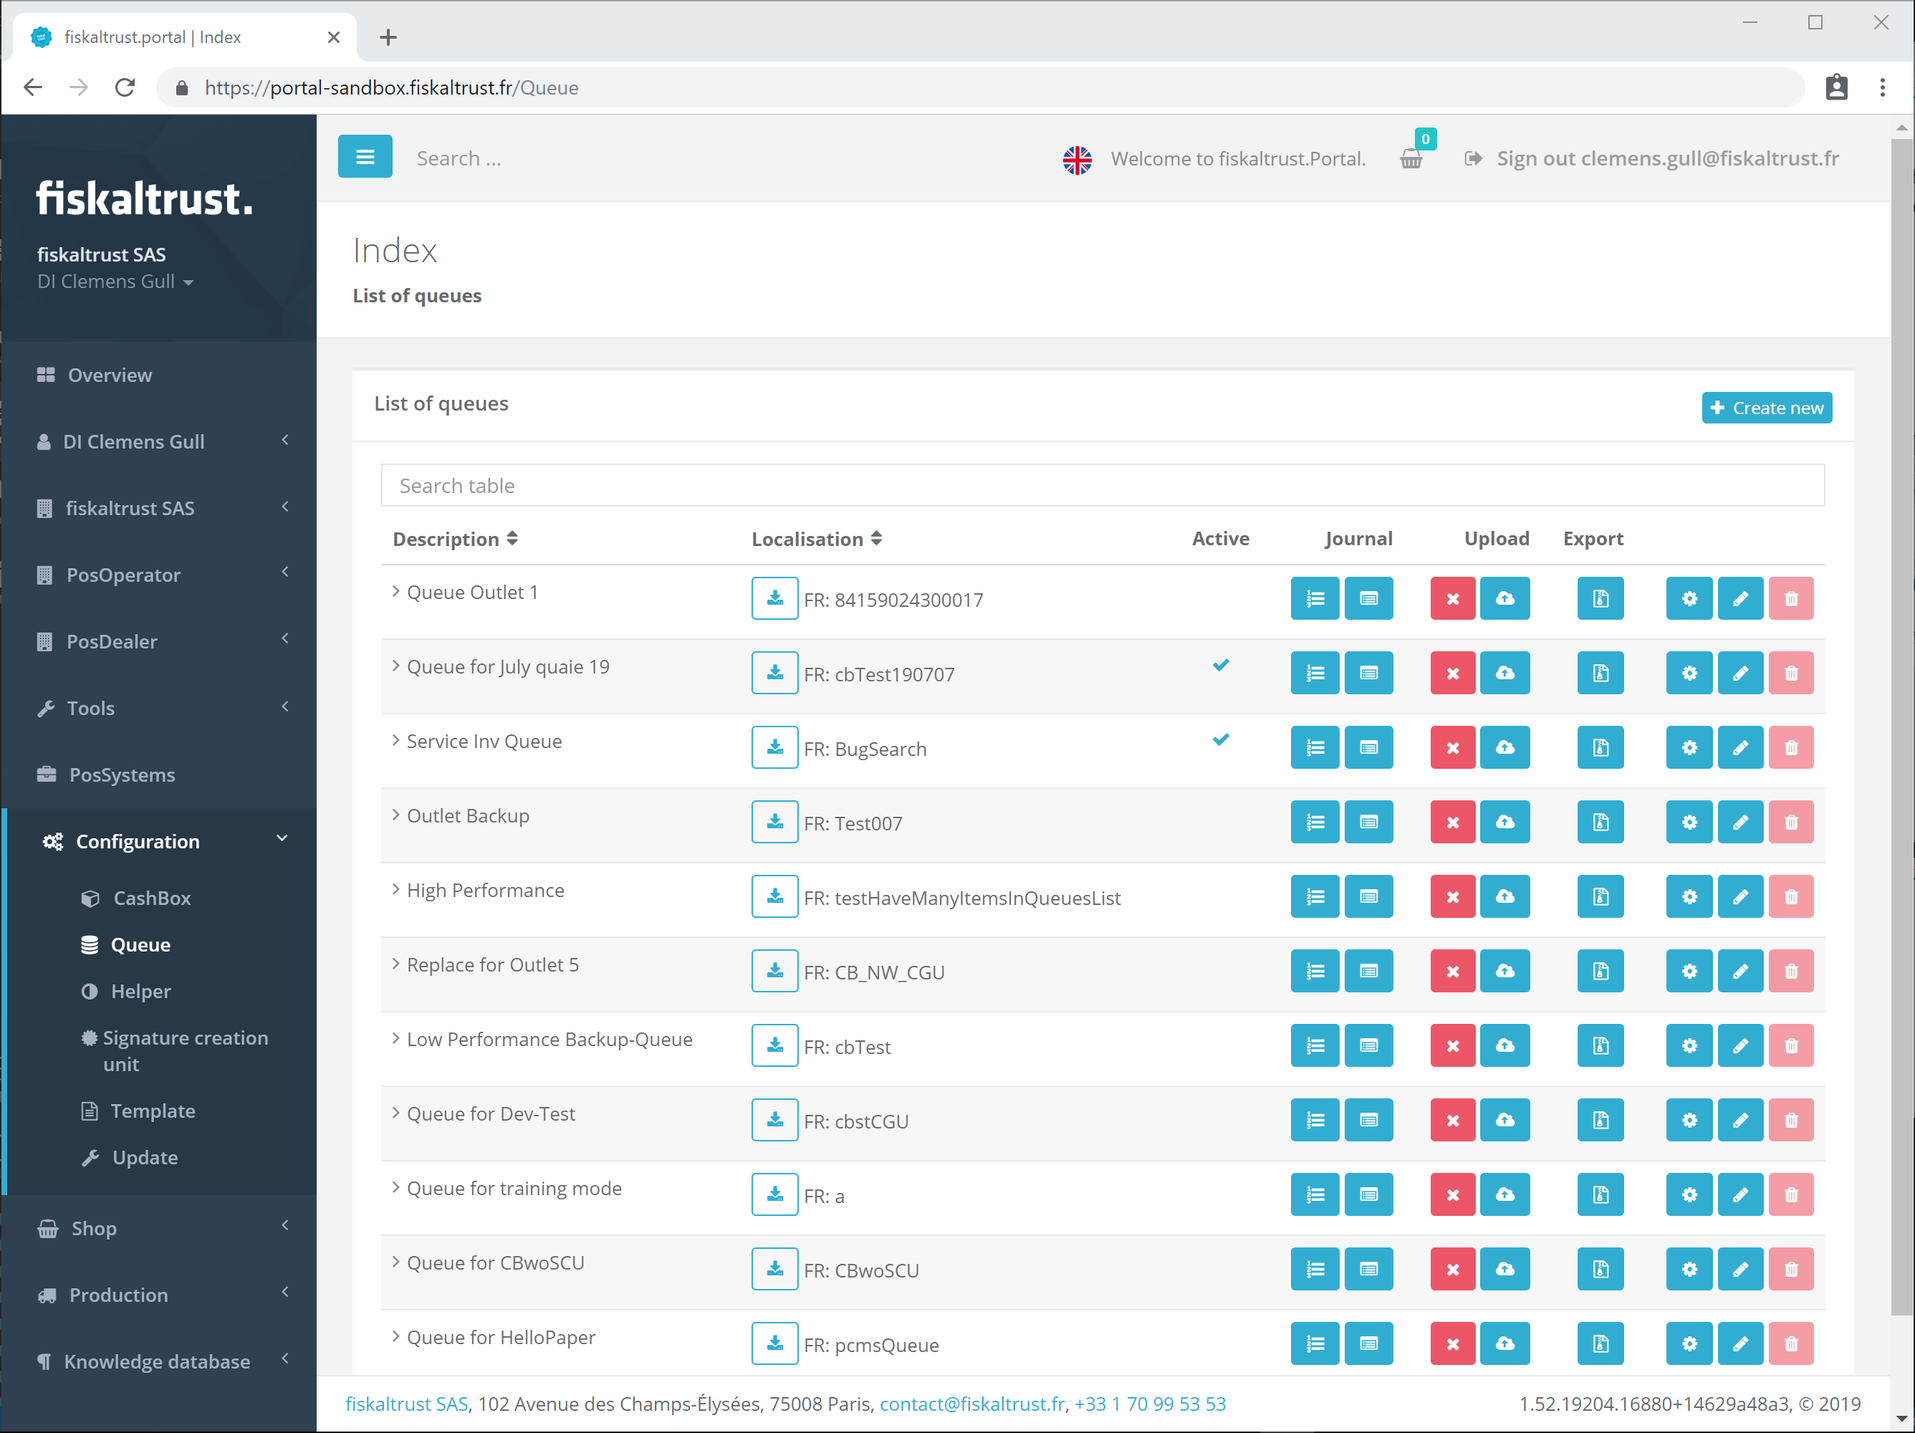
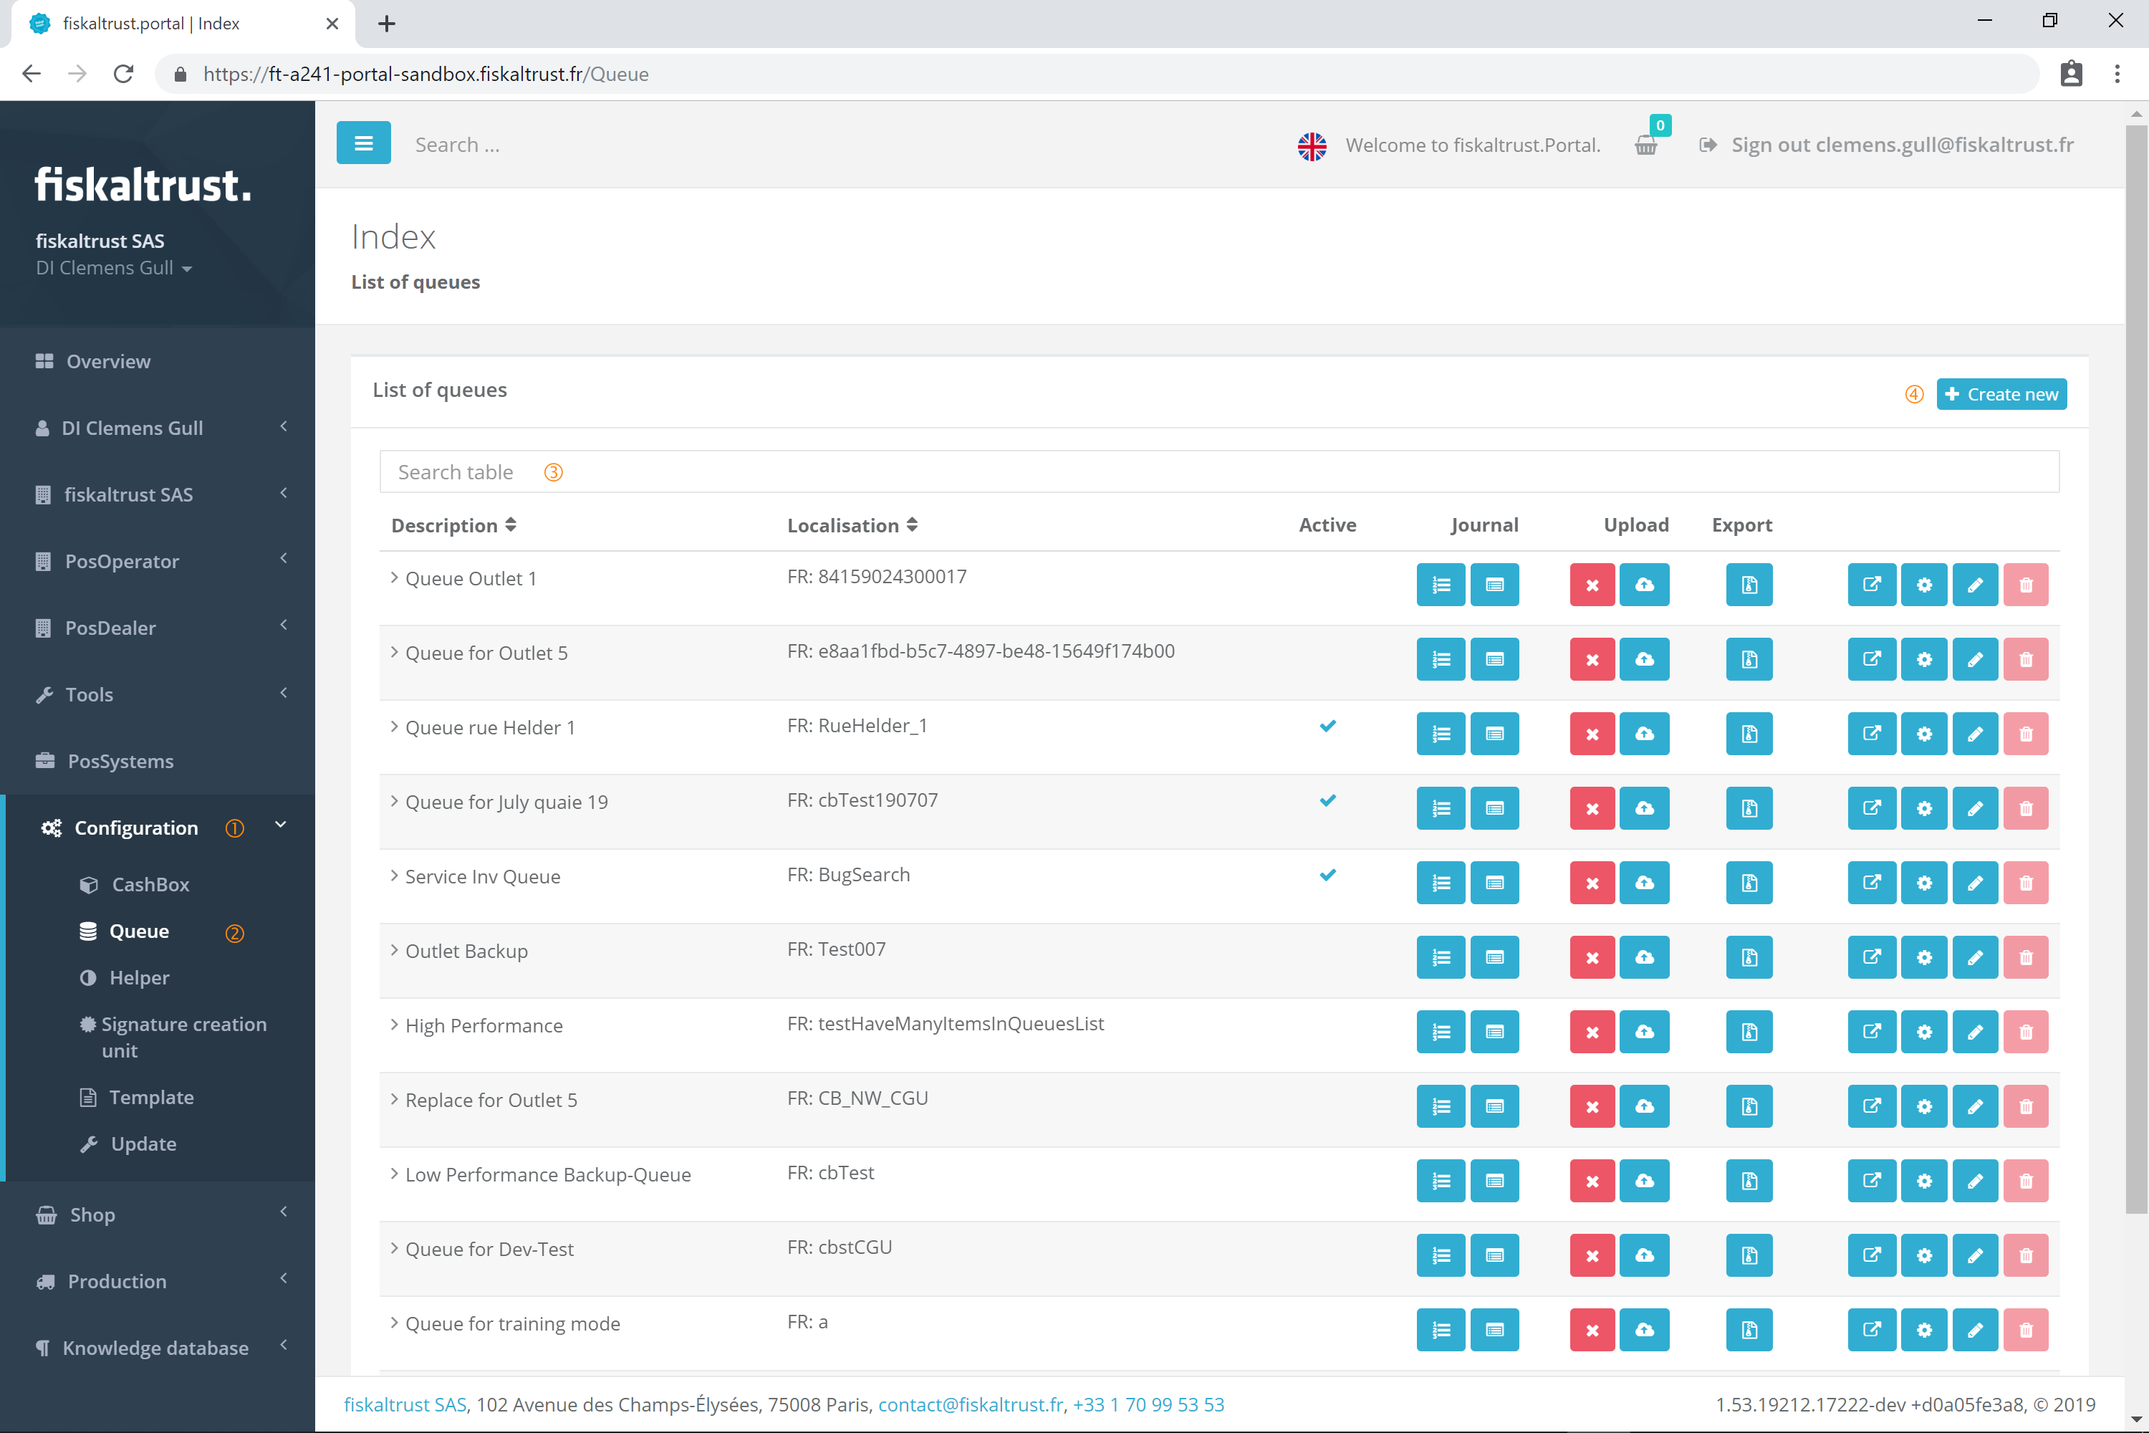
Queue management 1. part

diff --git a/doc/handbook-fr/configuration.md b/doc/handbook-fr/configuration.md
@@ -25,7 +25,7 @@ Configuration container - Add
 
 <img src="../images/Numbers/circle-4o.svg" width="24px"> Clicking [Cancel] cancels the operation without saving the changes and show the overview.
 
-####<a name ="overview-firstcashbox"></a> Overview first CashBox
+#### Overview first CashBox<a name ="overview-firstcashbox"></a>
 
 [![https://portal-sandbox.fiskaltrust.fr/CashBox](images/CashBox/CashBox-Details.png "http://portal.fiskaltrust.fr/CashBox")](http://portal.fiskaltrust.fr/CashBox)
 Overview - First configuration container 
@@ -110,77 +110,83 @@ Download Launcher
 
 For further information see chapter [Overview first CashBox](#overview-firstcashbox)
 
-###<a name="queue"></a> Queue
+### Queue<a name="queue"></a>
 
-#### Creating a queue
+[![https://portal.fiskaltrust.fr/Queue/](images/Queue/Queue.png "https://portal.fiskaltrust.fr/Queue/")](https://portal.fiskaltrust.fr/Queue/)
+Overview of queues
 
-[![https://portal.fiskaltrust.fr/Queue/](images/portal-sandbox.fiskaltrust.fr/Queue/001.png "https://portal.fiskaltrust.fr/Queue/")](https://portal.fiskaltrust.fr/Queue/)
-Creating the queue
+To get to the creation and _Configuration_<img src="../images/Numbers/circle-1o.svg" width="24px"> of a queue, click on the menu item _Queue_<img src="../images/Numbers/circle-2o.svg" width="24px">.
 
-![Number 1](../images/Numbers/1.png) To get to the creation and configuration of a queue, click on the menu item "*Queue*".
+To find a specific queue a text can be entered in the search field<img src="../images/Numbers/circle-3o.svg" width="24px">. Starting with the second entered character the table beneath gets filtered automatically.
 
-![Number 2](../images/Numbers/2.png) Click on \[Create new\] to add a new queue.
-
-# TODO!!! NO FRENCH PORTAL ONLINE
+A click on the button _+&nbsp;Create new_<img src="../images/Numbers/circle-4o.svg" width="24px"> adds a new queue to the accoung
 
 #### Add a queue
 
-[![https://portal.fiskaltrust.at/Queue/](images/portal-sandbox.fiskaltrust.at/Queue/002.png "https://portal.fiskaltrust.at/Queue/")](https://portal.fiskaltrust.at/Queue/)
+[![https://portal.fiskaltrust.fr/Queue/](images/Queue/Create.png "https://portal.fiskaltrust.fr/Queue/")](https://portal.fiskaltrust.fr/Queue/)
 Queue - Adding
 
-![Number 1](../images/Numbers/1.png) In this field, you can change the name of the queue.
+<img src="../images/Numbers/circle-1o.svg" width="24px"> This field, holds the name of the queue. It can be anything which helps to identify each queue.
 
-![Number 2](../images/Numbers/2.png) Here you can select the appropriate storage method depending on your operating system.
+<img src="../images/Numbers/circle-2o.svg" width="24px"> The appropriate storage method depending on your operating system can be selected. This value can not be changed after creation of the queue.
 
-![Number 3](../images/Numbers/3.png) The package version can also be selected using a dropdown menu. These can be updated by clicking on ![Refresh](../images/Buttons/008.png "Refresh")
+<img src="../images/Numbers/circle-3o.svg" width="24px"> The package version can also be selected using a dropdown menu. For updating the package version a click on ![Refresh](../images/Buttons/008.png "Refresh") is mandatory.<br>**To configure the POS-System with a law compliant fiksaltrust.Service the correct package has to be selected. The certified version for the used POS-System is written on the certificate, knows your PosDealer oder PosCreator.**
 
-![Number 4](../images/Numbers/4.png) Here you can set a timeout for the connection attempt with the signature creation device. (The time is given in milliseconds)
+<img src="../images/Numbers/circle-4o.svg" width="24px"> Sets a timeout in milliseconds for the connection attempt with the signature creation unit.
 
-![Number 5](../images/Numbers/5.png) Enter the country in which you would like to use fiskaltrust here.
+<img src="../images/Numbers/circle-5o.svg" width="24px"> The country in which the queue is used can be selected in this dropdown list. This value can not be changed after creation of the queue.<br>**For a law compliant configuration _France (FR)_ has to be chosen.**
 
-![Number 6](../images/Numbers/6.png) Enter the desired health insurance identification number here.
+<img src="../images/Numbers/circle-6o.svg" width="24px"> This identification value has to be unique in the account. This value can not be changed after creation of the queue.
 
-![Number 7](../images/Numbers/7.png) The system automatically generates the encryption key for you when you click on ![Encryptgen](../images/Buttons/038.png "Encryptgen").
+<img src="../images/Numbers/circle-7o.svg" width="24px"> The [_Save_]-button creates the queue and stores it.
 
-![Number 8](../images/Numbers/8.png) Click on \[Save\] to save the configuration of the queue.
+#### Queue configuration
 
-##### Fiskalization example for Germany
+The configuration has to be done directly after the creation of a queue. Nevertheless it can be changed afterwards with the ![Configuration](../images/Buttons/009.png "Configuration") button in the queue overview.
 
-[![https://portal.fiskaltrust.at/Queue/](images/portal-sandbox.fiskaltrust.at/Queue/003.png "https://portal.fiskaltrust.at/Queue/")](https://portal.fiskaltrust.at/Queue/)
-Fiskalization - Example Germany
+[![https://portal.fiskaltrust.fr/Queue/](images/Queue/Configuration.png "https://portal.fiskaltrust.fr/Queue/")](https://portal.fiskaltrust.fr/Queue/)
+Queue configuration
 
-German fiskalization does not (yet) include a signature creation device. This function is in test mode.
+<img src="../images/Numbers/circle-1o.svg" width="24px"> This box can be ticked to activate the verification of the connection certificate.
+
+<img src="../images/Numbers/circle-2o.svg" width="24px"> Activating this options speeds up the signing of the first certificate, but slows down the queue starting.
+
+<img src="../images/Numbers/circle-3o.svg" width="24px"> This line gives the possibility to add a key-value-pair to the configuration of the queue.<br><img src="../images/Numbers/circle-4o.svg" width="24px"> The ![add line](../images/Buttons/042.png "add line") button adds another line for a new pair and the ![remove line](../images/Buttons/043.png "remove line") button removes the line from the configuration.
+
+<img src="../images/Numbers/circle-5o.svg" width="24px"> The name of the queue can be changed in this field.
+
+<img src="../images/Numbers/circle-6o.svg" width="24px"> The type of the storage can only be defined on queue creation and can not be changed later on.
+
+<img src="../images/Numbers/circle-7o.svg" width="24px"> The package version can also be selected using a dropdown menu. For updating the package version a click on ![Refresh](../images/Buttons/008.png "Refresh") is mandatory.<br>**To configure the POS-System with a law compliant fiksaltrust.Service the correct package has to be selected. The certified version for the used POS-System is written on the certificate, knows your PosDealer oder PosCreator.**
+
+<img src="../images/Numbers/circle-8o.svg" width="24px"> The URL to access the queue can be defined in this field. By clicking on ![net pipe](../images/Buttons/012.png "net pipe") a URL is used, which is suitable for local use without internet connection, because no firewall settings are required. By clicking on ![http](../images/Buttons/013.png "http"), the system generates a URL with which the POS-System can access the queue. The URL can be renamed, to have it like this: [http://localhost.1200/Queuefiskaltrust]().<br>The ![add URL](../images/Buttons/042.png "add URL") button adds another line for a new URL and the ![remove URL](../images/Buttons/043.png "remove URL") button removes the URL from the configuration.
+
+<img src="../images/Numbers/circle-9o.svg" width="24px"> [Save] or [Save and close] saves the configuration of the queue (and closes the configuration module).
 
 #### Queue overview
 
-[![https://portal.fiskaltrust.at/Queue/](images/portal-sandbox.fiskaltrust.at/Queue/004.png "https://portal.fiskaltrust.at/Queue/")](https://portal.fiskaltrust.at/Queue/)
+By opening the _Queue_-Module in the _Configuration_-menu an overview from all created queues are shown.
+
+[![https://portal.fiskaltrust.fr/Queue/](images/Queue/Queue-New.png "https://portal.fiskaltrust.fr/Queue/")](https://portal.fiskaltrust.fr/Queue/)
 Queue overview
 
-![Number 1](../images/Numbers/1.png) Click on ![Receipt](../images/Buttons/014.png "Receipt") to go to the receipt check. For further explanations see chapter [Receipt validation](messages.md#receipt-validation)
+<img src="../images/Numbers/circle-1o.svg" width="24px"> Clicking on the _chevron right_ shows the base information for this queue and the used CashBox, if already configured.
 
-![Number 2](../images/Numbers/2.png) Here the current status of the PosSystem is displayed, by clicking on ![Questionmark](../images/Buttons/015.png "Questionmark") a message about the status can be sent.
+<img src="../images/Numbers/circle-2o.svg" width="24px"> This column shows the localisation (for which country the queue is used) and the _CashBox identification_.
 
-![Number 3](../images/Numbers/3.png) By clicking on ![Refresh](../images/Buttons/016.png "Refresh") a status check is immediately transmitted to Finanz Online.
+<img src="../images/Numbers/circle-3o.svg" width="24px"> The third column contains a checkmark ![Checkmark](../images/Buttons/044.png "Checkmark") when the queue is activated. A so called _start receipt_ has been send and the queue is ready to sign and chain receipts or contains already some receipts.<br>If this column is empty no start receipt was send or a _stop receipt_ was send and the queue does not accept any receipt for chaining and signing.
 
-![Number 4](../images/Numbers/4.png) By clicking on ![List](../images/Buttons/017.png "List") all transmitted receipts are displayed.
+<img src="../images/Numbers/circle-4o.svg" width="24px"> A queue contains two type of journals. Both of them are chained and secured against changes and contains already transmitted receipts.<br>By clicking on ![ReceiptJournal](../images/Buttons/017.png "ReceiptJournal") all transmitted receipts are displayed in a list, see chapter [_ReceiptJournal of a queue_](#receiptjournal-of-a-queue).<br>By clicking on ![ActionJournal](../images/Buttons/018.png "ActionJournal") all important actions and status changes of the queue a shown in a list, see chapter [_ActionJournal of a queue_](#actionjournal-of-a-queue).
 
-![Number 5](../images/Numbers/5.png) The Action Journal can be accessed by clicking on ![Ajournal](../images/Buttons/018.png "Ajournal"). All status changes and important actions are displayed here.
+<img src="../images/Numbers/circle-5o.svg" width="24px"> To stop the transmission from the local POS-System to the queue the ![Disable upload](../images/Buttons/045.png "Disable upload") button can be clicked. Starting from this moment the queue does not save any receipt in the cloud. With ![Reset upload](../images/Buttons/046.png "Reset upload") the queue receives all the not transmitted receipts form the moment the button is clicked.
 
-![Number 6](../images/Numbers/6.png) The queue export can be started by pressing the button ![Export](../images/Buttons/019.png "Export"). For further information see chapter "Queue - Export" in the national appendices.
+<img src="../images/Numbers/circle-6o.svg" width="24px"> The queue export can be started by pressing the button ![Export](../images/Buttons/019.png "Export"). For further information see chapter [_Export a queue_](#export-a-queue).
 
-![Number 7](../images/Numbers/7.png) The POS archive can be placed in the shopping cart by clicking on ![Dollarsign](../images/Buttons/020.png "Dollarsign").
+<img src="../images/Numbers/circle-8o.svg" width="24px"> The last column contains the commands to manage a queue.<br> By clicking on ![Used french signature creation unit](../images/Buttons/021.png "Used french signature creation unit") the connected SCUs can be displayed and managed. For further information see chapter [_SCUs used by a queue_](#scus-used-by-a-queue).<br>Here the configuration of the queue can be opened by clicking on ![Configure queue](../images/Buttons/009.png "Configure queue"), see [_Configure a queue_](#configure-a-queue).<br>Clicking on ![Edit](../images/Buttons/005.png "Edit") edits the description, package version and timeout of the queue, see [_Edit a queue_](#edit-a-queue).<br>Clicking on ![Trash](../images/Buttons/011.png "Trash") deletes the queue. However, the button for deleting the queue is currently inactive for legal reasons, so no queue can be deleted after creation. The possibility to delete a queue does not depend on the status or the content of a queue. Once created no deletion is possible. There will be an option to hide queues in the future.
 
-![Number 8](../images/Numbers/8.png) By clicking on ![Connect](../images/Buttons/021.png "Connect") the connected SCUs can be displayed and managed.
+#### SCUs used by a queue<a name="scus-used-by-a-queue"></a>
 
-![Number 9](../images/Numbers/9.png) Here the configuration of the queue can be opened by clicking on ![Gear](../images/Buttons/009.png "Gear").
-
-![Number 10](../images/Numbers/10.png) Click on ![Gear](../images/Buttons/009.png "Gear") to edit the description, package version and timeout of the queue.
-
-![Number 11](../images/Numbers/11.png) Click ![Trash](../images/Buttons/011.png "Trash") to delete the queue. However, the button for deleting the queue is currently inactive for legal reasons, so no queue can be deleted there will be an option to hide queues in the future.
-
-#### SCUs used by Queues
-
-[![https://portal.fiskaltrust.at/Queue/](images/portal-sandbox.fiskaltrust.at/Queue/QueueATSCUList/001.png "https://portal.fiskaltrust.at/Queue/")](https://portal.fiskaltrust.at/Queue/)
+[![https://portal.fiskaltrust.fr/Queue/](images/Queue/QueueFRSCUList/inactive.png "https://portal.fiskaltrust.fr/Queue/")](https://portal.fiskaltrust.fr/Queue/)
 Queue - Connected Signature Creation Devices (SCU)
 
 ![Number 1](../images/Numbers/1.png) By setting a check mark the SCU to be connected to the queue is selected.
@@ -191,20 +197,11 @@ Queue - Connected Signature Creation Devices (SCU)
 
 ![Number 4](../images/Numbers/4.png) Click on \[Save\]  to save the configuration of the queue.
 
-#### Queue configuration
+#### Configure a Queue<a name="configure-a-queue"></a>
 
-[![https://portal.fiskaltrust.at/Queue/](images/portal-sandbox.fiskaltrust.at/Queue/Configuration/001.png "https://portal.fiskaltrust.at/Queue/")](https://portal.fiskaltrust.at/Queue/)
-Queue configuration
+#### Edit a Queue<a name="edit-a-queue"></a>
 
-![Number 1](../images/Numbers/1.png) In this field, you can change the name of the signature creation device.
-
-![Number 2](../images/Numbers/2.png) Here you can create a URL for your queue. By clicking on ![net pipe](../images/Buttons/012.png "net pipe") you get a URL, which is suitable for local use without internet connection, because no firewall settings are required.
-
-![Number 3](../images/Numbers/3.png) By clicking on ![http](../images/Buttons/013.png "http"), the system generates a URL for you with which the POS system can access the queue. You can rename the URL yourself. This can look like this: [http://localhost.1200/Queuefiskaltrust]()
-
-![Number 4](../images/Numbers/4.png) Click on \[Save\] to save the configuration of the queue.
-
-#### Receipt journal of a Queue
+#### ReceiptJournal of a Queue<a name="receiptjournal-of-a-queue"></a>
 
 ![](images/portal-sandbox.fiskaltrust.at/Queue/ReceiptJournal/001.png)
 Queue - Overview ReceiptJournal
@@ -218,6 +215,8 @@ After selecting a receipt, it is displayed as follows.This view makes it possibl
 [![https://portal.fiskaltrust.at/Queue](images/portal-sandbox.fiskaltrust.at/Queue/005.png "https://portal.fiskaltrust.at/Queue")](https://portal.fiskaltrust.at/Queue)
 Queue - Start receipt
 
+#### ActionJournal of a Queue<a name="actionjournal-of-a-queue"></a>
+
 #### Edit a queue
 
 [![https://portal.fiskaltrust.at/Queue](images/portal-sandbox.fiskaltrust.at/Queue/Edit/001.png "https://portal.fiskaltrust.at/Queue")](https://portal.fiskaltrust.at/Queue)
@@ -229,7 +228,7 @@ Queue - Edit
 
 ![Number 3](../images/Numbers/3.png) Here you can select from the various package versions using the drop-down menu. These can be updated by clicking on ![Refresh](../images/Buttons/008.png "Refresh").
 
-#### Export a queue
+#### Export a queue<a name="export-a-queue"></a>
 
 [![https://portal.fiskaltrust.at/Queue/](images/portal-sandbox.fiskaltrust.at/Queue/ExportConfiguration/001.png "https://portal.fiskaltrust.at/Queue/")](https://portal.fiskaltrust.at/Queue/)
 Queue - Export
